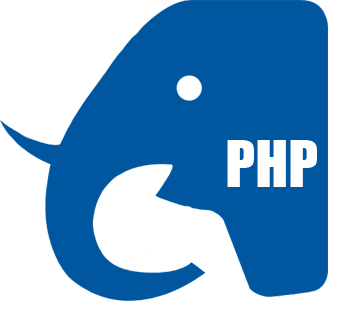
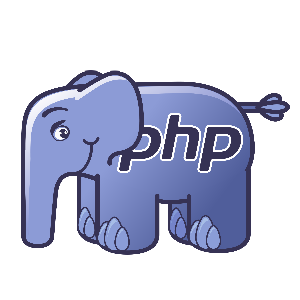
fix: update category pictures
different sizes of category pictures makes the layout offset behave unpredictable, as the pictures don't follow the size provided to its parent dom element. Providin pictures with a fixed size of 300x300 will make sure each category list takes up the exact same amount of space.
Changed mini-posts behaviour to not extend further than the maximum width of the screen, preventing the scrollbar to be visible on smaller screens

diff --git a/src/scss/category-post.scss b/src/scss/category-post.scss
@@ -5,6 +5,8 @@
 		@include vendor('flex-direction', 'column-reverse');
 		background: _palette(bg);
 		border: solid 1px _palette(border);
+		max-width:300px;
+		margin:1em;
 
 		.image {
 			overflow: hidden;
@@ -29,6 +31,7 @@
 			min-height: 4em;
 			position: relative;
 			@include vendor('flex-grow', '1');
+			border-top: solid 1px _palette(border);
 
 			h3 {
                 font-size: 0.9em;
@@ -50,6 +53,35 @@
 				position: absolute;
 				right: 2em;
 				top: 2em;
+			}
+		}
+	}
+
+	.mini-categories {
+		margin: 0 0 _size(element-margin) 0;
+
+		@include breakpoint(large) {
+			@include vendor('display', 'flex');
+			@include vendor('flex-wrap', 'wrap');
+			width: calc(100% - #{_size(element-margin)});
+
+			> * {
+				margin: _size(element-margin) _size(element-margin) 0 0;
+				width: calc(50% - #{_size(element-margin)});
+			}
+
+			> :nth-child(-n + 2) {
+				margin-top: 0;
+			}
+		}
+
+		@include breakpoint(xsmall) {
+			display: block;
+			width: 100%;
+
+			> * {
+				margin: 0 0 _size(element-margin) 0;
+				width: 100%;
 			}
 		}
 	}

diff --git a/src/scss/components/_mini-post.scss b/src/scss/components/_mini-post.scss
@@ -63,7 +63,7 @@
 		@include breakpoint(large) {
 			@include vendor('display', 'flex');
 			@include vendor('flex-wrap', 'wrap');
-			width: calc(100% + #{_size(element-margin)});
+			width: calc(100% - #{_size(element-margin)}); /* changed from + to -, to make sure a scrollbar won't appear on smaller screens*/
 
 			> * {
 				margin: _size(element-margin) _size(element-margin) 0 0;
